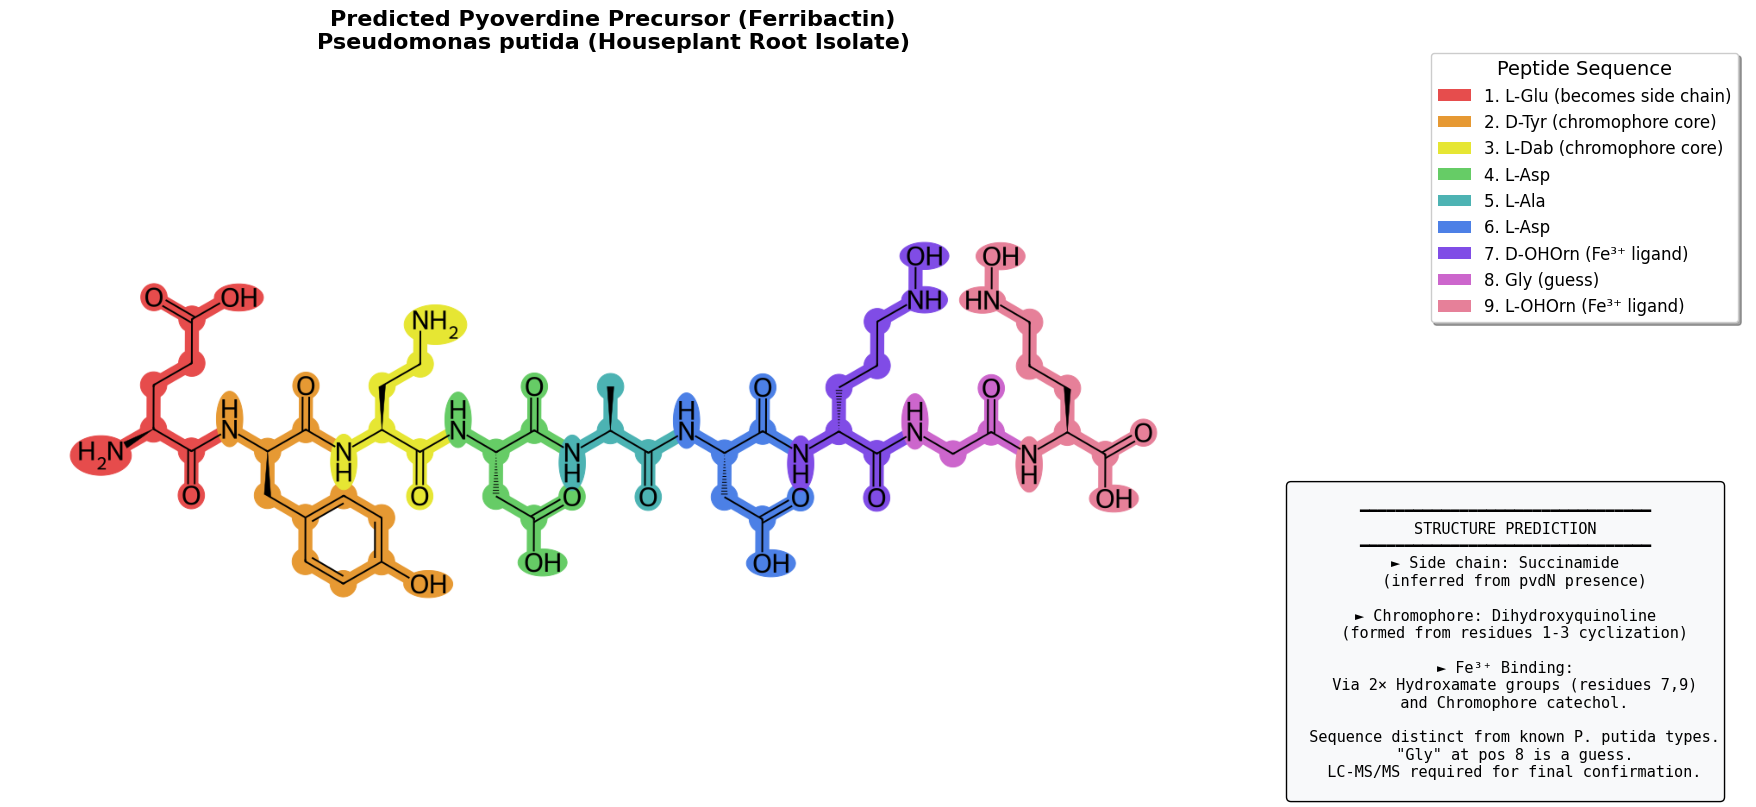
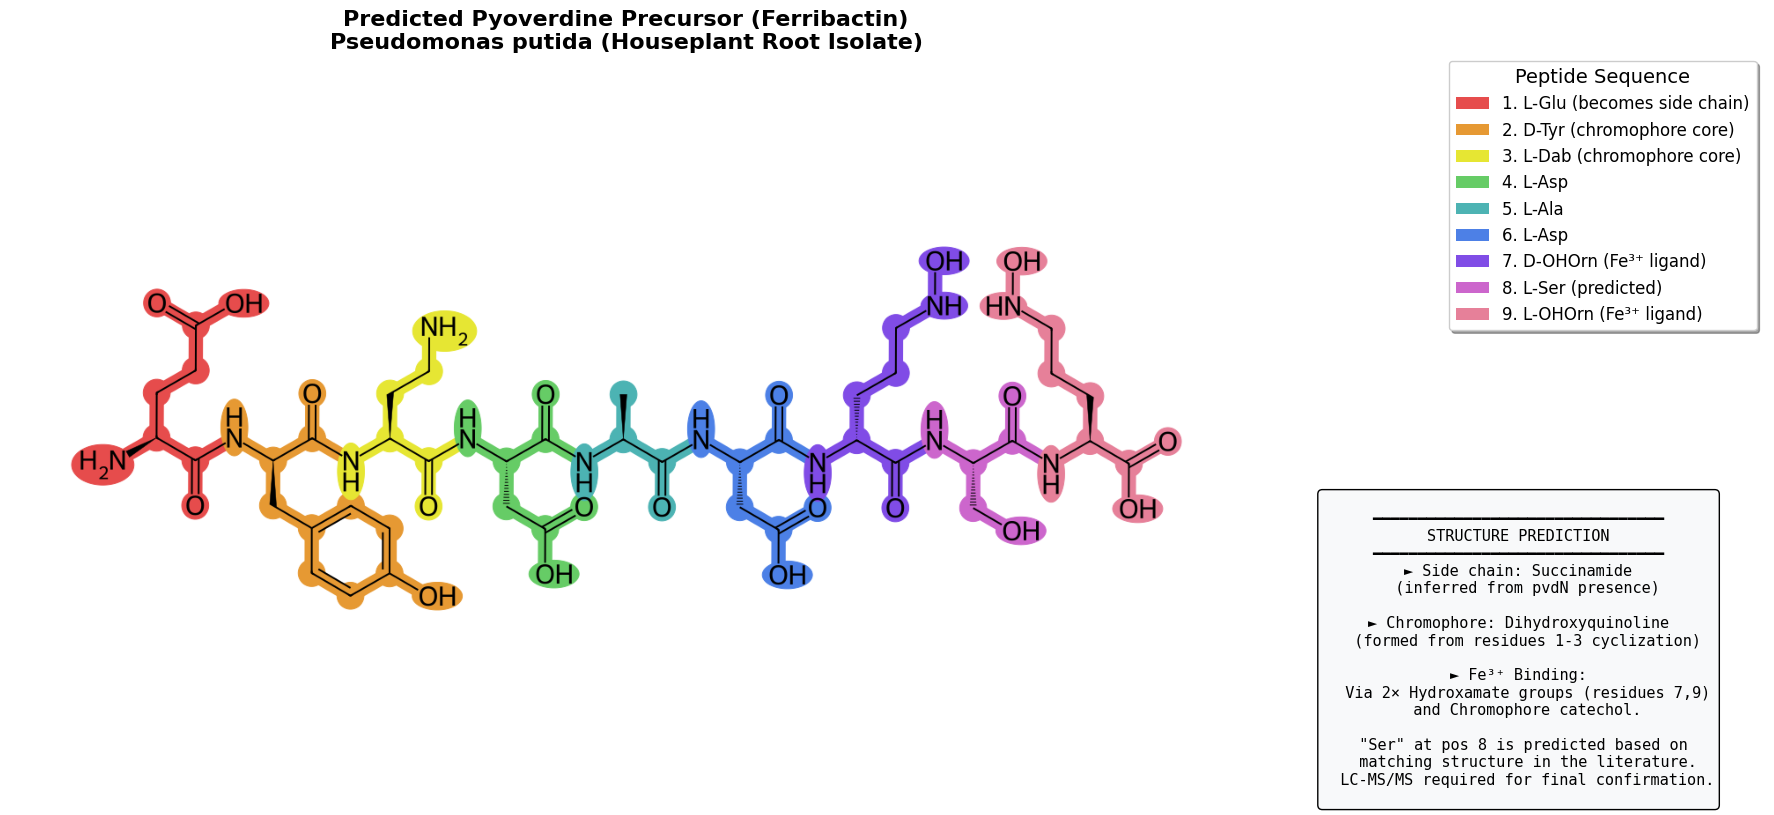
Tweak, ser in diagram

diff --git a/posts/putida.md b/posts/putida.md
@@ -13,7 +13,7 @@ In my [previous post](https://johnowhitaker.dev/posts/pseudomonas.html) I showed
 I went with Plasmidsaurus' 'Standard Bacterial Genome Sequencing with Extraction' [service](https://plasmidsaurus.com/genome). I sent the sample (~15mg cells suspended in Zymo DNA Shield) off on Tuesday morning and by Wednesday evening the results were ready. 
 
 ::: {.callout-note collapse="true"}
-### Results summary
+### Returned stats:
 
 Species ID (Mash)
 
@@ -47,135 +47,18 @@ Step one was looking for the pyoverdine Biosynthetic Gene Cluster (BGC). A [Deep
 
 ![](images/antiSMASH.png)
 
-By looking at the A-domain predictions for this region, we can start on a predicted peptide sequence: Glu-D-Tyr-Dab─Asp─Ala─Asp─D-OHOrn─X─OHOrn (where Glu-D-Tyr-Dab forms the conserved pyoverdine chromophore after cyclization). That X is an unknown, which we'll have to work on later - my best guess is Gly.
+By looking at the A-domain predictions for this region, we can start on a predicted peptide sequence: Glu-D-Tyr-Dab─Asp─Ala─Asp─D-OHOrn─X─OHOrn (where Glu-D-Tyr-Dab forms the conserved pyoverdine chromophore after cyclization). That X is an unknown, which we'll have to work on later - my best guess was Gly, although a later lit search makes me think Ser (see later update section).
 
 The next step is to figure out which side chain is present. (Some strains make some of both). The side-chain type is determined by which gene is present:
 
 - pvdN (PLP-dependent aminotransferase) → succinamide side chain
 - ptaA ([periplasmic transaminase](https://pmc.ncbi.nlm.nih.gov/articles/PMC5682972/)) → α-ketoglutarate side chain
 
-We BLAST the genome against known reference sequences, finding an 83% match to PvdN (NP_251095.1) but only a 23% match for PtaA (AAY94407.1) -> strain produces succinamide side chain.
+We BLAST the genome against known reference sequences, finding an 83% match to PvdN (NP_251095.1) but only a 23% match for PtaA (AAY94407.1) -> fair guess that this strain produces succinamide side chain.
 
 This info gives us enough info to reasonably guess at the structure of the pyoverdine precursor (ferribactin):
 
 ![](images/pyoverdine_precursor_pred.png)
-
-::: {.callout-note collapse="true"}
-## EXTRA INFO (AI) 
-
-🧠🧠🧠🧠🧠🧠🧠🧠🧠🧠🧠🧠🧠🧠🧠🧠🧠
-
-### From Genome to Siderophore: Characterizing a Novel Pyoverdine from *Pseudomonas putida*
-
-### The Starting Point
-
-We began with a high-quality assembled genome from a *Pseudomonas putida* strain isolated from a houseplant root system (sequenced by Plasmidsaurus). The assembly was excellent: **99.88% complete**, only 2.15% contamination, and a 6.54 Mb genome at ~58× coverage. Species identity was confirmed via Mash (95.6% to *P. putida* NBRC 14164).
-
-### Finding the Pyoverdine Biosynthetic Gene Cluster
-
-We searched the Bakta annotations for pyoverdine-related genes (**pvd** genes, NRPS, siderophore terms) and identified a cluster spanning **~4.7–4.8 Mb** containing:
-
-- **pvdT** — pyoverdine exporter
-- **Two large NRPS genes** (~14.7 kb and ~6.4 kb) — the peptide assembly machinery
-- **PvdA-like monooxygenase** — hydroxylates ornithine
-- **Formylglycine-generating enzyme** (likely **pvdF**) — formyltransferase
-- **argD** — makes diaminobutyrate (Dab), essential for the chromophore
-- **TonB-dependent receptor** — likely the ferripyoverdine receptor (fpvA)
-
-Notably, **pvdA** was located separately at ~3.99 Mb — this split arrangement is common in pyoverdine BGCs. (Note from Johno: There's a PvdA-like hydroxylase in the main cluster too, so this might not be a case of a split arrangement after all? TBD if one or both are used, and how they're regulated.)
-
-### antiSMASH Analysis
-
-Running the genome through antiSMASH confirmed Region 10 as an **NRP-metallophore** cluster (siderophore NRPS). The top KnownClusterBlast hit was **Pf-5 pyoverdine** from *Pseudomonas protegens*, but with only ~49% NRPS identity — indicating a related but distinct peptide.
-
-### Predicting the Peptide Sequence
-
-antiSMASH provided **A-domain substrate predictions** for each NRPS module:
-
-| Module | Substrate | Configuration |
-|--------|-----------|---------------|
-| 1 | Glu | L |
-| 2 | Tyr | D (E-domain present) |
-| 3 | Dab | L |
-| 4 | Asp | L |
-| 5 | Ala | L |
-| 6 | Asp | L |
-| 7 | OH-Orn | D (E-domain present) |
-| 8 | **?** | — |
-| 9 | OH-Orn | L |
-
-### Resolving the Unknown Residue
-
-We explored two hypotheses:
-
-1. **Lysine** — has a terminal -NH₂ on its side chain
-2. **Glycine** — essentially just an α-amino group with no real side chain
-
-After deeper analysis (including literature review of other *P. putida* pyoverdines), **glycine emerged as the more likely candidate**:
-- The "NH₂" prediction could mean "minimal/no side chain"
-- Glycine is common in mid-chain positions of *P. putida* pyoverdines (KT2440, GB-1 both contain Gly)
-- Prediction tools are known to have difficulty with Gly vs Ala
-
-(Note fro Johno: Opus was sure an unrelated minowa NH2 mention was related to this and predicted lysine as a result, I tried to determine the unknown residue but had no luck, Gly is a pretty good guess AFAICT but will need analysis to confirm).
-
-### Determining the Side Chain: pvdN vs ptaA
-
-Pyoverdine side chains come in two main types:
-- **Succinamide** — produced by strains with **pvdN**
-- **α-Ketoglutarate** — produced by strains with **ptaA**
-
-We BLASTed known pvdN (*P. aeruginosa* PAO1, NP_251095.1) and ptaA sequences against the genome:
-
-- **pvdN: 83% identity match** → gene LDMLEE_03614 at ~3.99 Mb (near pvdA)
-- **ptaA: No significant match**
-
-**Conclusion: Succinamide side chain**
-
-### The Final Predicted Structure
-
-```
-CHROMOPHORE PRECURSORS          VARIABLE PEPTIDE
-        ↓                              ↓
-┌───────────────────┐  ┌─────────────────────────────────────┐
- L-Glu → D-Tyr → L-Dab → L-Asp → L-Ala → L-Asp → D-OHOrn → Gly → L-OHOrn
-                  ↓                                    ↓            ↓
-           cyclizes to form                      Fe³⁺ binding  Fe³⁺ binding
-        dihydroxyquinoline                       (hydroxamate) (hydroxamate)
-           chromophore
-```
-
-**Key features:**
-- **9-residue peptide** (longer than typical *P. putida* pyoverdines)
-- **Two hydroxyornithine residues** — provides two hydroxamate groups for Fe³⁺ chelation
-- **Succinamide side chain** on the chromophore
-- **Novel sequence** — no match in SIDERITE database (best similarity only 0.35)
-
-### SMILES (with stereochemistry)
-
-```
-NN[C@@H](CCC(=O)O)C(=O)N[C@H](Cc1ccc(O)cc1)C(=O)N[C@@H](CCN)C(=O)N[C@@H](CC(=O)O)C(=O)N[C@@H](C)C(=O)N[C@@H](CC(=O)O)C(=O)N[C@H](CCCNO)C(=O)NCC(=O)N[C@@H](CCCNO)C(=O)O
-```
-
-(Note from Johno: Should probably be a single N at the start there)
-
-### What Still Needs Confirmation
-
-This is a **bioinformatic prediction**. To definitively confirm the structure:
-
-1. **LC-MS/MS** — will reveal the exact mass and fragment pattern, confirming each residue (especially Gly at position 8)
-2. **The hydroxamates** — could be N-formylated (if pvdF is active), which would add +28 Da per residue
-3. **Cyclization** — the C-terminal OHOrn likely cyclizes with the chromophore, which MS/MS should reveal
-
-### Why This Matters
-
-This appears to be a **genuinely novel pyoverdine variant** — it doesn't match any characterized *P. putida* pyoverdines in the literature or databases. Discovering the diversity of siderophores in environmental isolates helps us understand:
-
-- Microbial competition for iron in the rhizosphere
-- The evolution of NRPS systems
-- Potential for novel iron chelators with biotechnology applications
-
-## END AI SLOP
-:::
 
 Here's [a notebook](https://gist.github.com/johnowhitaker/8659d6f38c799e9d4d8e417e1641e6e0) running over the steps, with some light annotation. (I've since been fiddling a bit more, LMK if you're wanting to dive into this deeply)
 
@@ -194,28 +77,15 @@ BioMetals,
 2013](https://sci-hub.ru/https://pubmed.ncbi.nlm.nih.gov/23877277/) I found the following: P. putida BTP1/90-40 Asp–Ala–Asp–AOHOrn–Ser–cOHOrn  (citing Jacques et al. (1995)). This is pretty much spot on for ours, and would mean the mystery X is Ser (serine), not Gly as guessed. It also answers a mystery - I'd been searching fruitlessly for pvdF in my genome to figure out if OHOrn gets formylated, this would indicate it doesn't in this case. 
 
 ::: {.callout-note collapse="true"}
-## AI agrees:
-This is a great find! Let's compare:
-
-Literature (P. putida BTP1/90-40): Asp–Ala–Asp–AOHOrn–Ser–cOHOrn
-
-Our prediction: Asp–Ala–Asp–D-OHOrn–X–OHOrn
-
-That's nearly identical! The key insight: X = Ser (serine), not Gly as guessed.
-
-The nomenclature:
+## Nomenclature
 
 AOHOrn = "amide-linked" hydroxyornithine (connected via α-amino group)
+
 cOHOrn = "cyclic" hydroxyornithine (C-terminal, forms lactam ring with its own side chain)
-This is a known pyoverdine type! Your strain likely produces a pyoverdine very similar or identical to the BTP1/90-40 type.
 
-Why the A-domain gave "X": Ser can be tricky to predict – its small hydroxymethyl side chain sometimes doesn't give strong specificity signatures. Much more plausible than Gly given this literature match.
+BTP1/90-40 is the strain from the paper
 
-Updated peptide structure:
-
-Copied!
-Chromophore─Glu─D-Tyr─Dab─Asp─Ala─Asp─D-OHOrn─Ser─cOHOrn
-This also answers the pvdF question – if the literature strain has OHOrn (not fOHOrn/formyl-hydroxyornithine), then absence of pvdF is consistent.
+fOHOrn/formyl-hydroxyornithine is the formylated form (hehe) of hydroxyornithine, pvdF is the "hydroxyornithine transformylase enzyme" that does this in some Pseudomonas.
 :::
 
 ## PS: Molecule viewer test
